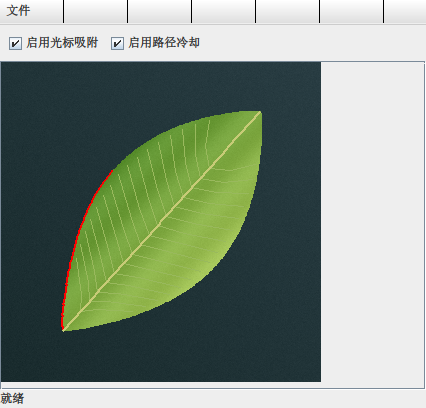
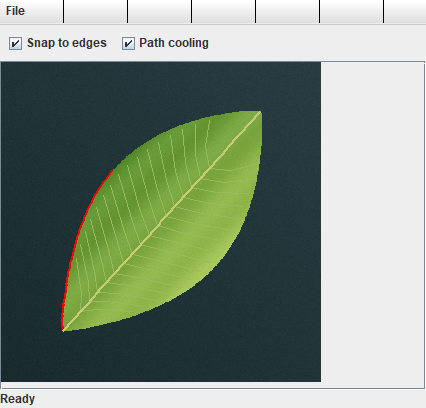
Translate labels in the workbench illustration

Changed region(s): [[0.061, 0.0882, 0.4883, 0.1471], [0.0, 0.9412, 0.0915, 1.0], [0.0, 0.0, 0.0915, 0.0588]]

diff --git a/README.md b/README.md
@@ -1,4 +1,4 @@
-![Intelligent Scissors. One half of a leaf shows the Sobel gradient and the other shows the computed contour.](live-wire-cover.png)
+![Intelligent Scissors. One half of a leaf shows the Sobel gradient and the other shows the computed contour.](live-wire-cover.png?v=7f6c8cc)
 
 **Intelligent Scissors** is a Java Swing tool for cutting objects out of images. Click a point on an object's outline, then move the cursor along it. A red line follows the edges between your anchor and the cursor. Close the outline to save the selection as a transparent PNG.
 
@@ -6,7 +6,7 @@
 
 ## How it works
 
-![Four views of the same leaf: the source image, its gradient, the shortest paths joining eight anchors, and the cutout on a checkerboard.](live-wire-stages.png)
+![Four views of the same leaf: the source image, its gradient, the shortest paths joining eight anchors, and the cutout on a checkerboard.](live-wire-stages.png?v=31b504f)
 
 The project's Java code produced the gradient map, contour, and cutout from this [320 × 320 leaf image](leaf-sample.png). The eight white dots are the anchors used for this example. The red line joins them, and the checkerboard shows where the output is transparent.
 
@@ -46,7 +46,7 @@ java -cp "build:algs4/algs4.jar" IntelligentScissorsGUI
 
 ## Try the leaf sample
 
-<img src="workbench.png" width="426" alt="The Swing app tracing the lower left edge of the leaf in red.">
+<img src="workbench.png?v=1283548" width="426" alt="English-labeled preview of the Swing app tracing the lower left edge of the leaf in red.">
 
 1. Open **File → Open Image** (文件 → 打开图像) and select `leaf-sample.png` from the repository root.
 2. Click the leaf's edge to place your first anchor. Move the cursor along the rim and click near bends to fix each segment in place.
